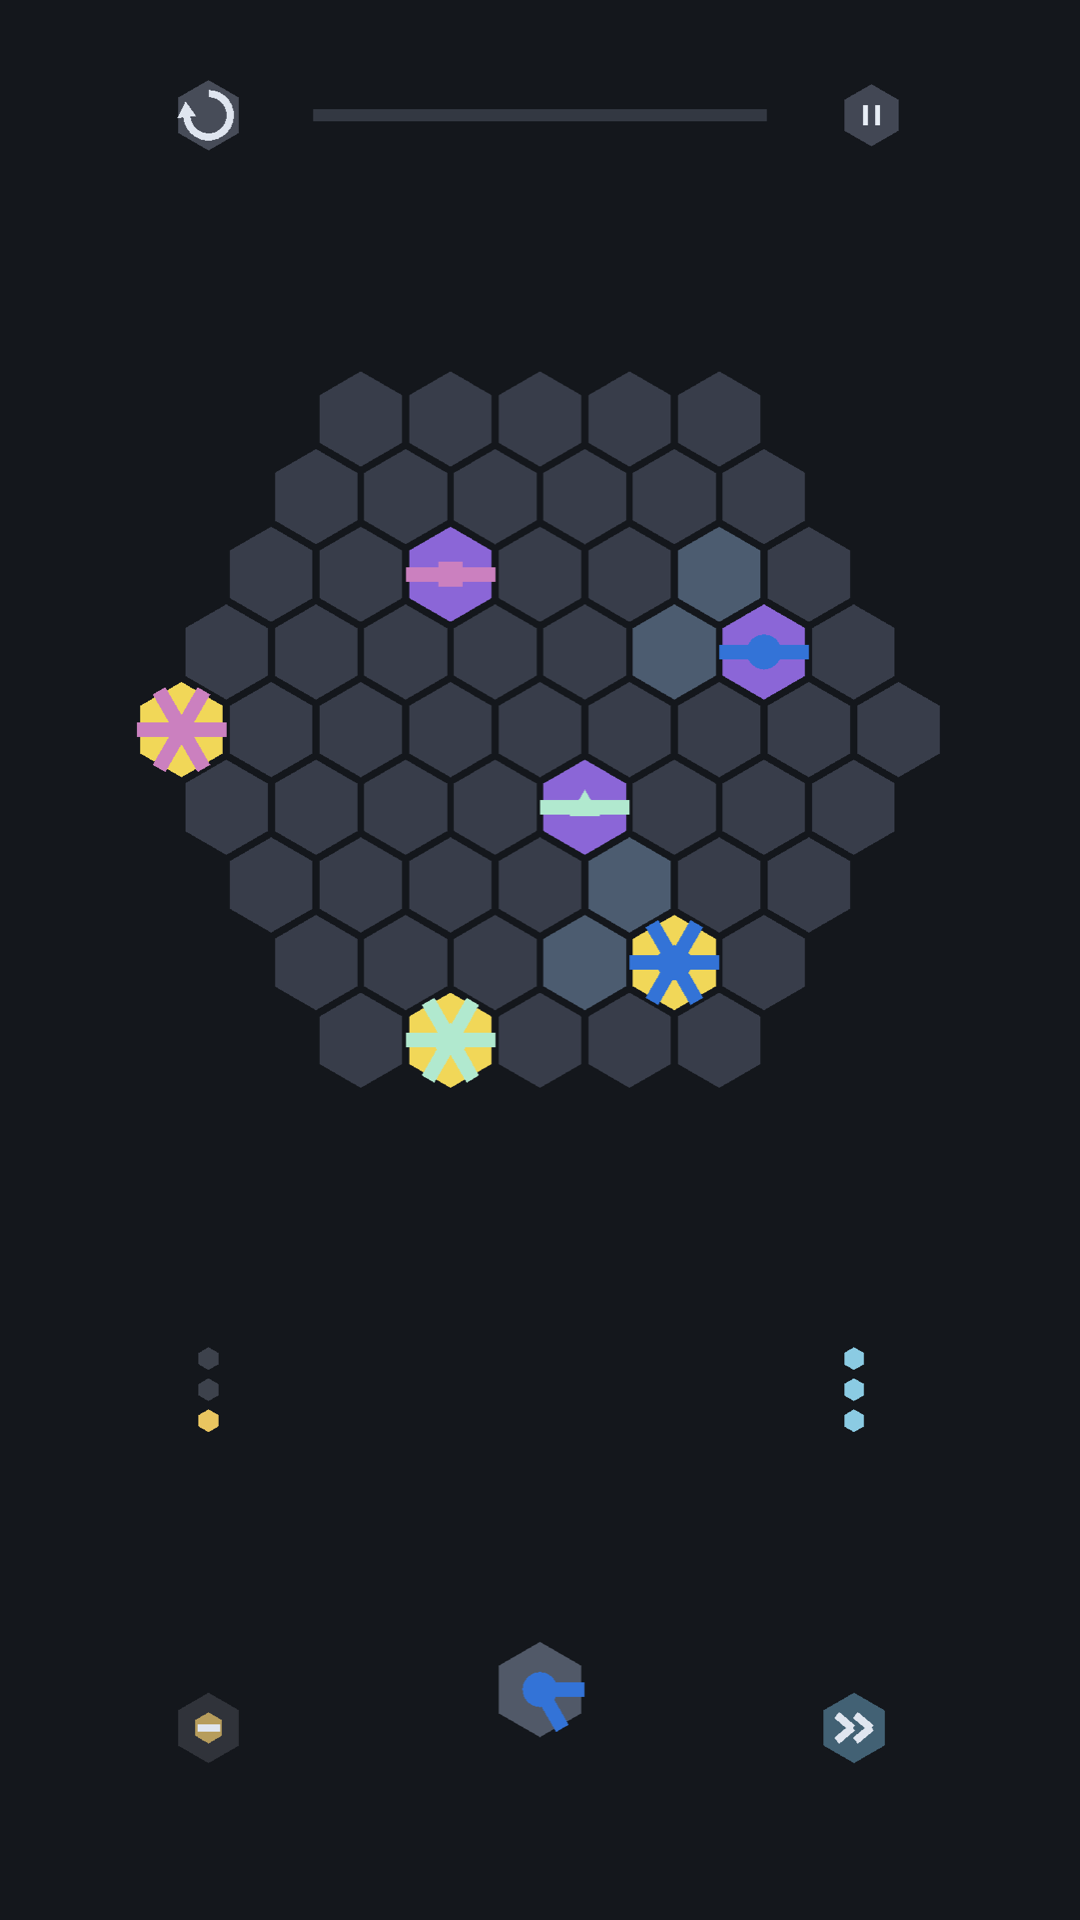
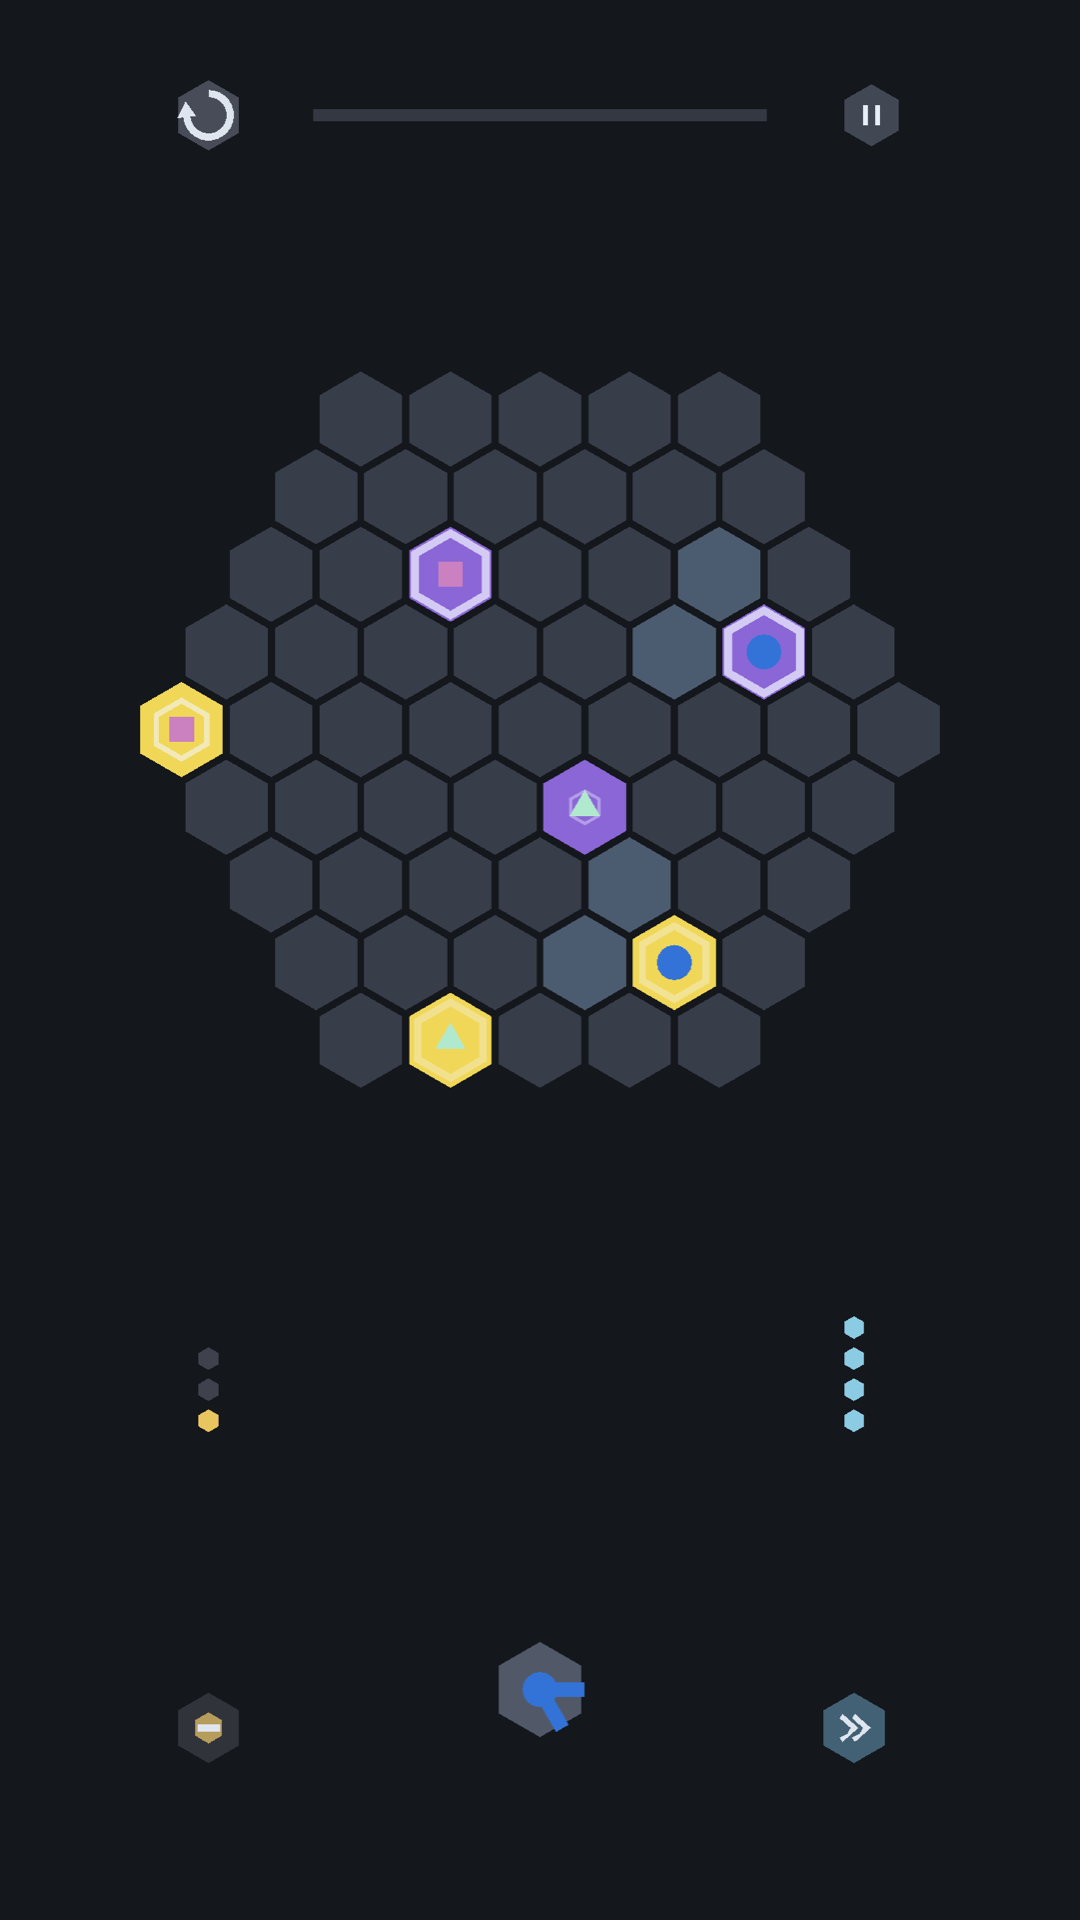
refactor: drop the endpoint edge marks now the ring carries the role
A spring was starred across all six edges and a hub barred east-west, which was
the only signal of the role that did not depend on colour. The ring says the same
thing better — a spring's travels outward, a hub's inward — so two signals for one
fact just left the cell cluttered. Reported from the device.

An endpoint is now three things: the background colour for its role, the resource
motif for its kind, in shape as well as colour, and the ring's direction for its
role again without colour.

One consequence had to be handled rather than accepted. With the marks gone the
ring is the only non-colour signal left, so resting it at nothing under Reduce
Motion would have taken the distinction away from exactly the players most likely
to need it. A resting ring now sits at the end of its own travel instead: open at
the rim on a spring, closed at the centre on a hub. Switching motion off stops the
movement without changing what the board says.

Store screenshots retaken, since the endpoints no longer look like the ones in the
listing.

diff --git a/Assets/Scripts/Presentation/CellView.cs b/Assets/Scripts/Presentation/CellView.cs
@@ -15,12 +15,6 @@ namespace Pathweaver.Game.Presentation
     /// </remarks>
     internal sealed class CellView : MonoBehaviour
     {
-        /// <summary>A spring pushes outward, so it is marked on every edge.</summary>
-        private static readonly int[] SpringMarkEdges = { 0, 1, 2, 3, 4, 5 };
-
-        /// <summary>A hub receives, so it is marked only across.</summary>
-        private static readonly int[] HubMarkEdges = { 0, 3 };
-
         private TileVisual _visual;
         private Transform _pulse;
         private Material _pulseMaterial;
@@ -76,7 +70,7 @@ namespace Pathweaver.Game.Presentation
             var pulse = new GameObject("Pulse");
             pulse.transform.SetParent(transform, worldPositionStays: false);
             pulse.transform.localPosition = new Vector3(0f, 0f, -0.005f);
-            pulse.transform.localScale = Vector3.one * EndpointPulse.RestingScale;
+            pulse.transform.localScale = Vector3.one * EndpointPulse.RestingScaleFor(endpoint.Role);
 
             pulse.AddComponent<MeshFilter>().sharedMesh = ringMesh;
 
@@ -109,7 +103,15 @@ namespace Pathweaver.Game.Presentation
             _pulseMaterial.color = Color.Lerp(_pulseLit, _pulseResting, fade);
         }
 
-        /// <summary>Puts the ring away, for reduced motion.</summary>
+        /// <summary>
+        /// Settles the ring where it still says which role this cell plays, for reduced motion.
+        /// </summary>
+        /// <remarks>
+        /// Not hidden. Now that the edge marks are gone, the ring is the only thing separating a source
+        /// from a destination other than colour — so switching motion off must leave a silhouette
+        /// behind, not take the distinction away from the players most likely to need it. A spring rests
+        /// open at its rim; a hub rests closed at its centre.
+        /// </remarks>
         internal void RestPulse()
         {
             if (_pulse == null)
@@ -117,7 +119,8 @@ namespace Pathweaver.Game.Presentation
                 return;
             }
 
-            _pulse.localScale = Vector3.one * EndpointPulse.RestingScale;
+            _pulse.localScale = Vector3.one * EndpointPulse.RestingScaleFor(PulseRole);
+            _pulseMaterial.color = _pulseLit;
         }
 
         internal void ShowEmpty()
@@ -139,15 +142,18 @@ namespace Pathweaver.Game.Presentation
 
         internal void ShowEndpoint(FlowEndpoint endpoint)
         {
-            // A spring reaches outward on every edge, a hub only across. The pattern of marks
-            // says which role a cell plays without relying on its colour, so the two remain
-            // distinguishable when yellow and purple are not.
+            // No edge marks. A spring used to be starred on all six edges and a hub barred across,
+            // which was the only non-colour signal of the role — and now the ring says it better: a
+            // spring's travels outward, a hub's inward. Two signals for one fact left the cell busy,
+            // and the marks were the weaker of the two.
+            //
+            // What remains carries everything: the background says the role, the resource motif in the
+            // middle says the kind by shape as well as colour, and the ring says the role by direction.
             var isSpring = endpoint.Role == EndpointRole.Spring;
 
             _visual.SetBackground(isSpring ? BoardPalette.Spring : BoardPalette.Hub);
             _visual.UseResourceArt(null);
-            _visual.ShowEdges(
-                isSpring ? SpringMarkEdges : HubMarkEdges, BoardPalette.ForKind(endpoint.Kind));
+            _visual.ClearSpokes();
             _visual.ShowResource(endpoint.Kind, BoardPalette.ForKind(endpoint.Kind));
         }
 

diff --git a/Assets/Tests/EndpointPulseTests.cs b/Assets/Tests/EndpointPulseTests.cs
@@ -85,6 +85,30 @@ namespace Pathweaver.Game.EditorTests
         }
 
         [Test]
+        public void Reduced_motion_still_says_which_role_a_cell_plays()
+        {
+            // The edge marks are gone, so this ring is the only thing besides colour that separates a
+            // source from a destination. Switching motion off may take the movement away; it may not
+            // take the distinction away from the players who need it most.
+            var spring = EndpointPulse.RestingScaleFor(EndpointRole.Spring);
+            var hub = EndpointPulse.RestingScaleFor(EndpointRole.Hub);
+
+            Assert.That(spring, Is.Not.EqualTo(hub));
+            Assert.That(spring, Is.GreaterThan(hub));
+            Assert.That(hub, Is.GreaterThan(0f), "a hidden ring says nothing at all");
+        }
+
+        [Test]
+        public void A_resting_ring_sits_where_its_travel_ends()
+        {
+            // So switching motion off looks like the animation stopping, not like a different board.
+            Assert.That(
+                EndpointPulse.RestingScaleFor(EndpointRole.Spring),
+                Is.EqualTo(EndpointPulse.ScaleAt(EndpointPulse.PeriodSeconds * 0.999f, EndpointRole.Spring))
+                    .Within(0.01f));
+        }
+
+        [Test]
         public void The_ring_is_fully_lit_when_it_sets_out()
         {
             Assert.That(EndpointPulse.FadeAt(0f), Is.EqualTo(0f));

diff --git a/Assets/Scripts/Presentation/EndpointPulse.cs b/Assets/Scripts/Presentation/EndpointPulse.cs
@@ -41,11 +41,20 @@ namespace Pathweaver.Game.Presentation
         /// </remarks>
         internal const float MaximumScale = 0.92f;
 
-        /// <summary>The scale a ring rests at when motion is switched off.</summary>
-        internal const float RestingScale = 0f;
-
         /// <summary>How small the ring is at the tight end of its travel.</summary>
-        private const float MinimumScale = 0.18f;
+        internal const float MinimumScale = 0.18f;
+
+        /// <summary>
+        /// Where a ring sits when motion is switched off.
+        /// </summary>
+        /// <remarks>
+        /// At the end of its own travel — open at the rim for a spring, closed at the centre for a hub —
+        /// rather than hidden. The ring is now the only non-colour signal of the role, since the edge
+        /// marks that used to carry it are gone, so reduced motion has to keep the shape even though it
+        /// gives up the movement.
+        /// </remarks>
+        internal static float RestingScaleFor(EndpointRole role)
+            => role == EndpointRole.Hub ? MinimumScale : MaximumScale;
 
         /// <summary>
         /// How large the ring is at a point in the cycle, as a transform scale.

diff --git a/CLAUDE.md b/CLAUDE.md
@@ -307,7 +307,7 @@ lose.
 | Does clearing the quota end the board? | Yes. Every control is withdrawn and a single button, centred, moves on to the next level or the next endless round. This reverses the earlier answer — play used to continue so routes could be extended for a bigger score — because a finished board with a full quota bar and a live tray reads as unfinished. A token earned by the clearing route is not lost: campaign levels carry Pivot Tokens between them, as endless rounds do. |
 | Is a retrieved conduit returned to hand? | No, it is discarded. The token buys back the space, not the tile. |
 | Does a pair pay more than once? | It pays for the best route it has managed, and only the difference. The original rule — one payout per pair at whatever length it first completed — made `biome1-17` a trap: the one-conduit short cut across the ring took 100 and put the 800 target out of reach for good, and retrieving the short cut did not clear the record, so the Pivot Token could not rescue it either. Reported from a device. Tokens are still granted on a first completion only, or extending a route a cell at a time would farm them. |
-| Why do springs and hubs breathe? | A spring's ring grows from its centre to its rim and a hub's collapses inward, which is the "radiating versus converging silhouette" the art guide asks for in section 9. Until then the only thing separating a source from a destination was background colour, which a colour-blind player does not have. The motion is therefore an accessibility channel that happens to look alive, not decoration that happens to be accessible. |
+| Why do springs and hubs breathe? | A spring's ring grows from its centre to its rim and a hub's collapses inward, which is the "radiating versus converging silhouette" the art guide asks for in section 9. The motion is therefore an accessibility channel that happens to look alive, not decoration that happens to be accessible. The old edge marks — a star on a spring, a bar across a hub — were removed with it: two signals for one fact left the cell cluttered, and the marks were the weaker one. Reduced motion rests the ring open on a spring and closed on a hub rather than hiding it, so the role survives without either colour or movement. |
 | Why does animation keep running when nothing is happening? | Because a board with a dead spring reads as frozen. It runs at the 30 Hz the frame governor already drops to after 1.5 seconds idle, and no animator calls `NotifyActivity` — doing so would pin the active rate for as long as the game is open and spend battery on a board nobody is touching. Pulse periods are kept slow enough (1.8 s, 54 frames) that 30 Hz does not look stepped; the fix for a stepped pulse is never to raise the idle rate. |
 | What does a Pivot Token do? | It takes a conduit off the board, and nothing else. PRD section 3.2B also allows turning a placed conduit; that half is dropped, because a conduit was placed connected to something and turning it in place usually only disconnects it. `PivotRotate` was implemented, tested, and then deleted rather than left as dead code. |
 | How is a Pivot Token spent? | Tap the remove button under the pip column to arm it, then tap a conduit to retrieve it. Arming is a mode rather than a bare tap on a conduit, because the board is the one thing a thumb touches constantly and a token is the scarcest thing the player holds. Arming spends nothing, and a tap anywhere else cancels. |

diff --git a/docs/art/tile-design-guide.md b/docs/art/tile-design-guide.md
@@ -373,15 +373,24 @@ Every cell of the board is in exactly one of these states at any moment.
 | 2 | **Empty cell, legal for the held tile** | The tile in your hand can go *here* | Same hexagon in the lighter `#4D5C70` | A clearly readable "you may build here" treatment. Note the code comment: this is **not a hint, it is the placement rule made visible** — a tile must join the existing network, and without this signal a refused tap reads as the game ignoring the player. It must be unmistakable, yet calm enough to have several on screen at once. |
 | 3 | **Placed conduit** | A tile you have laid | Hexagon in `#525969` plus one spoke per open edge in the kind colour | The tile art proper. Backing plus conduit, per sections 6 and 7. |
 | 4 | **Conduit on a route that just paid out** | *That* is the route that scored | The whole route's cells flash to near-white `#F2F7FF` for **0.9 seconds**, conduits keeping their kind colour | The celebration. The whole route lights, not the last tile placed, because what paid out is the route and the player needs to see which one. See the proposal below. |
-| 5 | **Spring** | A source; flow begins here | Hexagon in `#F2D959` with an east–west bar in the kind colour | A source. Must read as *emitting*. |
-| 6 | **Hub** | A destination; flow is harvested here | Hexagon in `#8C66D9` with an east–west bar in the kind colour | A destination. Must read as *receiving*. |
+| 5 | **Spring** | A source; flow begins here | Hexagon in `#F2D959`, the resource motif in the middle, and a ring that grows from the centre to the rim | A source. Must read as *emitting*. |
+| 6 | **Hub** | A destination; flow is harvested here | Hexagon in `#8C66D9`, the resource motif in the middle, and a ring that collapses from the rim to the centre | A destination. Must read as *receiving*. |
 
 **Now established in code:** springs and hubs animate, and the direction is the role. A ring
 grows from the centre of a spring out to its rim; on a hub it collapses from the rim to the
 centre. That is the "radiating versus converging silhouette" proposed below, built as
 `EndpointPulse` — so the non-colour channel for source-versus-destination exists today, and
 your art should assume it. The ring is a separate object drawn between the cell background
-and the conduit arms, so it never covers the resource motif.
+and the resource motif, so it never covers the motif.
+
+**And the edge marks are gone.** A spring used to be starred across all six edges and a hub
+barred east–west; both were removed when the ring arrived, because two signals for one fact
+left the cell cluttered and the marks were the weaker signal. So an endpoint is now three
+things: the background colour for the role, the resource motif for the kind, and the ring's
+direction of travel for the role again without colour. **Do not design a spring or hub around
+edge marks** — and note that when a player switches Reduce Motion on, the ring stops but does
+not vanish: it rests open at the rim on a spring and closed at the centre on a hub, so the
+silhouette still answers which is which.
 
 Additional established facts about springs and hubs:
 

diff --git a/README.md b/README.md
@@ -107,8 +107,12 @@ the outer edge by adding a file that names the nodes it attaches to.
 
 Springs breathe outward and hubs breathe inward: a ring grows from the centre of a spring to
 its rim, and collapses from rim to centre on a hub. That is not decoration. Source and
-destination were previously told apart by background colour alone, and the art guide's
-section 9 asks for exactly this second channel — "a radiating versus converging silhouette".
+destination were previously told apart by background colour and a pattern of edge marks — a
+star on a spring, a bar across a hub — and the art guide's section 9 asks for exactly this
+second channel, "a radiating versus converging silhouette". The marks are gone now that the
+ring carries the same fact better; what remains on an endpoint is the background colour for
+its role, the resource motif for its kind, and the ring for its direction. With Reduce Motion
+on the ring stops but stays: open at the rim on a spring, closed at the centre on a hub.
 
 Every **completed** route carries a travelling light from its spring to its hub, along the
 clear channel down the middle of each conduit. Only completed routes flow, so movement means
